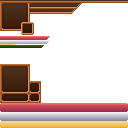
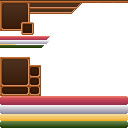
新增饥饿值显示\修改buff栏位置\新增道具栏

Changed region(s): [[0.0, 0.7188, 1.0, 1.0], [0.0, 0.4375, 0.3438, 0.6875]]

diff --git a/core/src/main/java/com/shatteredpixel/shatteredpixeldungeon/ui/StatusPane.java b/core/src/main/java/com/shatteredpixel/shatteredpixeldungeon/ui/StatusPane.java
@@ -74,6 +74,7 @@ public class StatusPane extends Component {
 	private BitmapText level;
 
 	private BuffIndicator buffs;
+	private PropIndicator props;
 	private Compass compass;
 
 	private BusyIndicator busy;
@@ -88,7 +89,7 @@ public class StatusPane extends Component {
 
 		this.large = large;
 
-		if (large)  bg = new NinePatch( asset, 0, 64, 41, 39, 33, 0, 4, 0 );
+		if (large)  bg = new NinePatch( asset, 0, 57, 41, 39, 33, 0, 4, 0 );
 		else        bg = new NinePatch( asset, 0, 0, 128, 36, 85, 0, 45, 0 );
 		add( bg );
 
@@ -119,20 +120,23 @@ public class StatusPane extends Component {
 		compass = new Compass( Statistics.amuletObtained ? Dungeon.level.entrance() : Dungeon.level.exit() );
 		add( compass );
 
-		if (large)  rawShielding = new Image(asset, 0, 112, 128, 9);
+		if (large)  rawShielding = new Image(asset, 0, 105, 128, 9);
 		else        rawShielding = new Image(asset, 0, 40, 50, 4);
 		rawShielding.alpha(0.5f);
 		add(rawShielding);
 
-		if (large)  shieldedHP = new Image(asset, 0, 112, 128, 9);
+		if (large)  shieldedHP = new Image(asset, 0, 105, 128, 9);
 		else        shieldedHP = new Image(asset, 0, 40, 50, 4);
 		add(shieldedHP);
 
-		if (large)  hp = new Image(asset, 0, 103, 128, 9);
+		if (large)  hp = new Image(asset, 0, 96, 128, 9);
 		else        hp = new Image(asset, 0, 36, 50, 4);
 		add( hp );
 
-		if (!large) hungry = new Image(asset,0,45,44,3);
+		if (large)
+			hungry = new Image(asset,0,121,128,7);
+		else
+			hungry = new Image(asset,0,45,44,3);
 		add(hungry);
 
 		hpText = new BitmapText(PixelScene.pixelFont);
@@ -148,7 +152,7 @@ public class StatusPane extends Component {
 		};
 		add(heroInfoOnBar);
 
-		if (large)  exp = new Image(asset, 0, 121, 128, 7);
+		if (large)  exp = new Image(asset, 0, 114, 128, 7);
 		else        exp = new Image(asset, 0, 44, 16, 1);
 		add( exp );
 
@@ -165,6 +169,9 @@ public class StatusPane extends Component {
 
 		buffs = new BuffIndicator( Dungeon.hero, large );
 		add( buffs );
+
+		props = new PropIndicator( Dungeon.hero, large );
+		add( props );
 
 		busy = new BusyIndicator();
 		add( busy );
@@ -199,7 +206,7 @@ public class StatusPane extends Component {
 			exp.y = y + 30;
 
 			hp.x = shieldedHP.x = rawShielding.x = x + 30;
-			hp.y = shieldedHP.y = rawShielding.y = y + 19;
+			hp.y = shieldedHP.y = rawShielding.y = y + 10;
 
 			hpText.x = hp.x + (128 - hpText.width())/2f;
 			hpText.y = hp.y + 1;
@@ -209,9 +216,13 @@ public class StatusPane extends Component {
 			expText.y = exp.y;
 			PixelScene.align(expText);
 
-			heroInfoOnBar.setRect(heroInfo.right(), y + 19, 130, 20);
+			hungry.x = x + 30;
+			hungry.y = y + 21;
 
-			buffs.setRect(x + 31, y, 128, 16);
+			heroInfoOnBar.setRect(heroInfo.right(), y + 10, 130, 20);
+
+			buffs.setRect(x + bg.width + 1, y + bg.height - 30, 128, 16);
+			props.setRect(0, 0, 128, 16);
 
 			busy.x = x + bg.width + 1;
 			busy.y = y + bg.height - 9;
@@ -222,6 +233,9 @@ public class StatusPane extends Component {
 			hp.x = shieldedHP.x = rawShielding.x = x + 30;
 			hp.y = shieldedHP.y = rawShielding.y = y + 3;
 
+			hungry.x = x + 30;
+			hungry.y = y + 9;
+
 			hpText.scale.set(PixelScene.align(0.5f));
 			hpText.x = hp.x + 1;
 			hpText.y = hp.y + (hp.height - (hpText.baseLine()+hpText.scale.y))/2f;
@@ -230,7 +244,9 @@ public class StatusPane extends Component {
 
 			heroInfoOnBar.setRect(heroInfo.right(), y, 50, 9);
 
-			buffs.setRect( x + 31, y + 15, 50, 8 );
+			buffs.setRect( x + 1, y + 40, 8, 50 );
+			props.setRect( width-16, y + 40, 8, 50 );
+
 
 			busy.x = x + 1;
 			busy.y = y + 33;
@@ -269,7 +285,7 @@ public class StatusPane extends Component {
 		}
 
 		hp.scale.x = Math.max( 0, (health-shield)/(float)max);
-		hungry.scale.x = curHungry/maxHungry;
+		hungry.scale.x = (maxHungry-curHungry)/maxHungry;
 		shieldedHP.scale.x = health/(float)max;
 
 		if (shield > health) {

diff --git a/core/src/main/java/com/shatteredpixel/shatteredpixeldungeon/Assets.java b/core/src/main/java/com/shatteredpixel/shatteredpixeldungeon/Assets.java
@@ -98,7 +98,7 @@ public class Assets {
 	}
 	public static class Props {
 		public static final String PROPS_SMALL  = "interfaces/props.png";
-		public static final String PROPS_LARGE  = "interfaces/props.png";
+		public static final String PROPS_LARGE  = "interfaces/large_props.png";
 	}
 	//these points to resource bundles, not raw asset files
 	public static class Messages {
